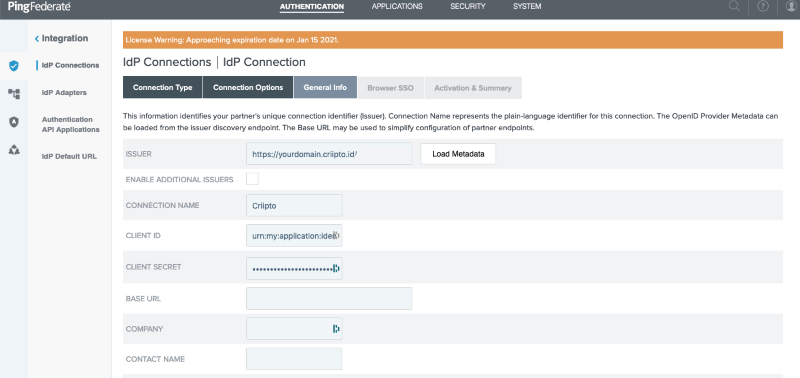
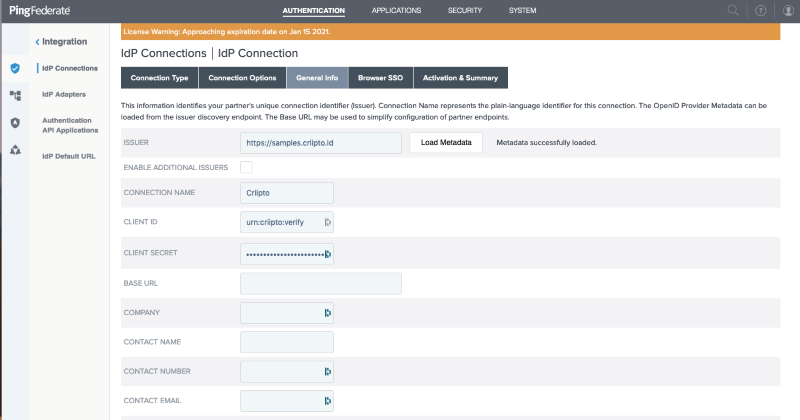
Now using a better screenshot for the General Info, which made it
possible to remove 2 comments.

diff --git a/authentication/pingfederate.md b/authentication/pingfederate.md
@@ -65,15 +65,7 @@ Click the **Next** button, choose `BROWSER SSO` in `Connection Options`
 
 Click the **Next** button, enter your specific _Domain_ authority in the `ISSUER` field and click the **Load Metadata** button
 
-{% iconnote note %}
-For this article, one would replace `https://yourdomain.criipto.id/` with `https://samples.criipto.id/`
-{% endiconnote %}
-
 Give the connection a recognizable name, copy-paste the _Client ID_ and _Client secret_ values from your Criipto Verify application
-
-{% iconnote note %}
-For this article, one would set `urn:criipto:verify` as the `CLIENT SECRET`.
-{% endiconnote %}
 
 ![General Info](/images/pingfederate-connection-general.png)
 
